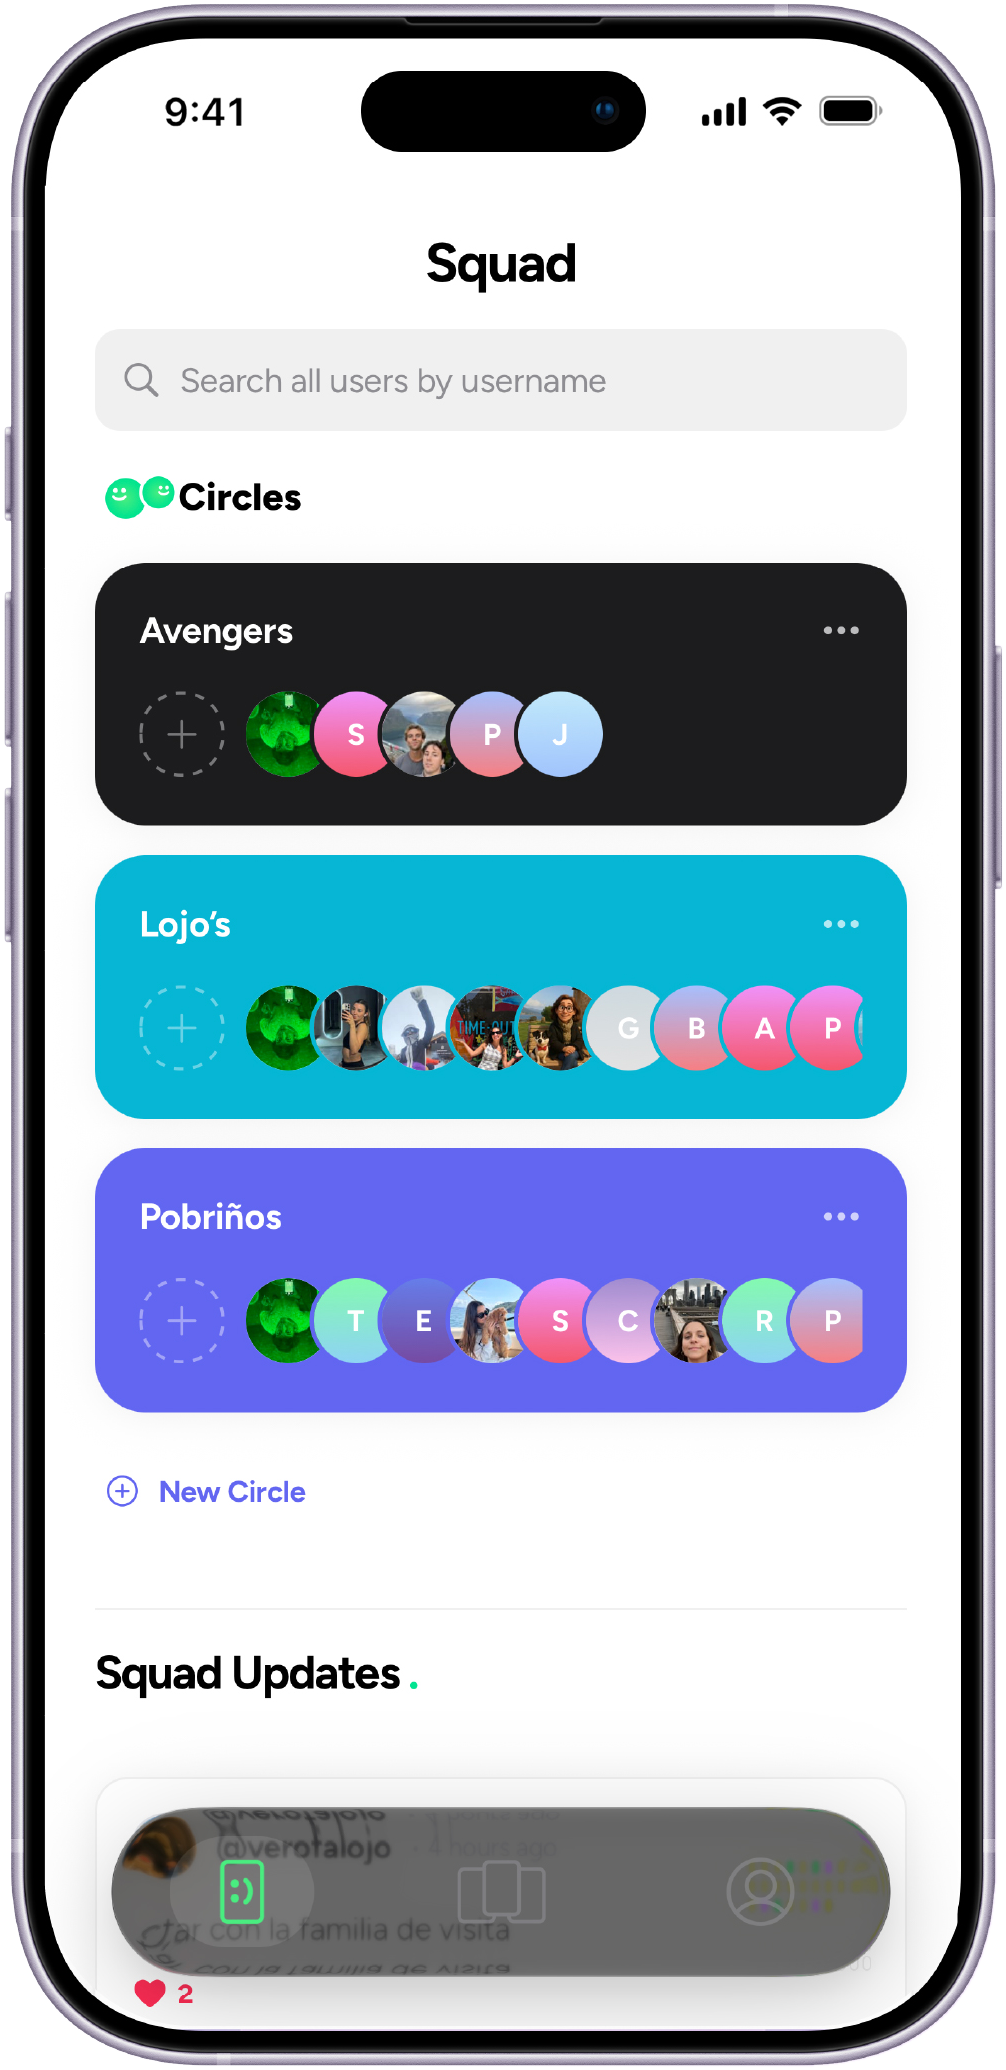
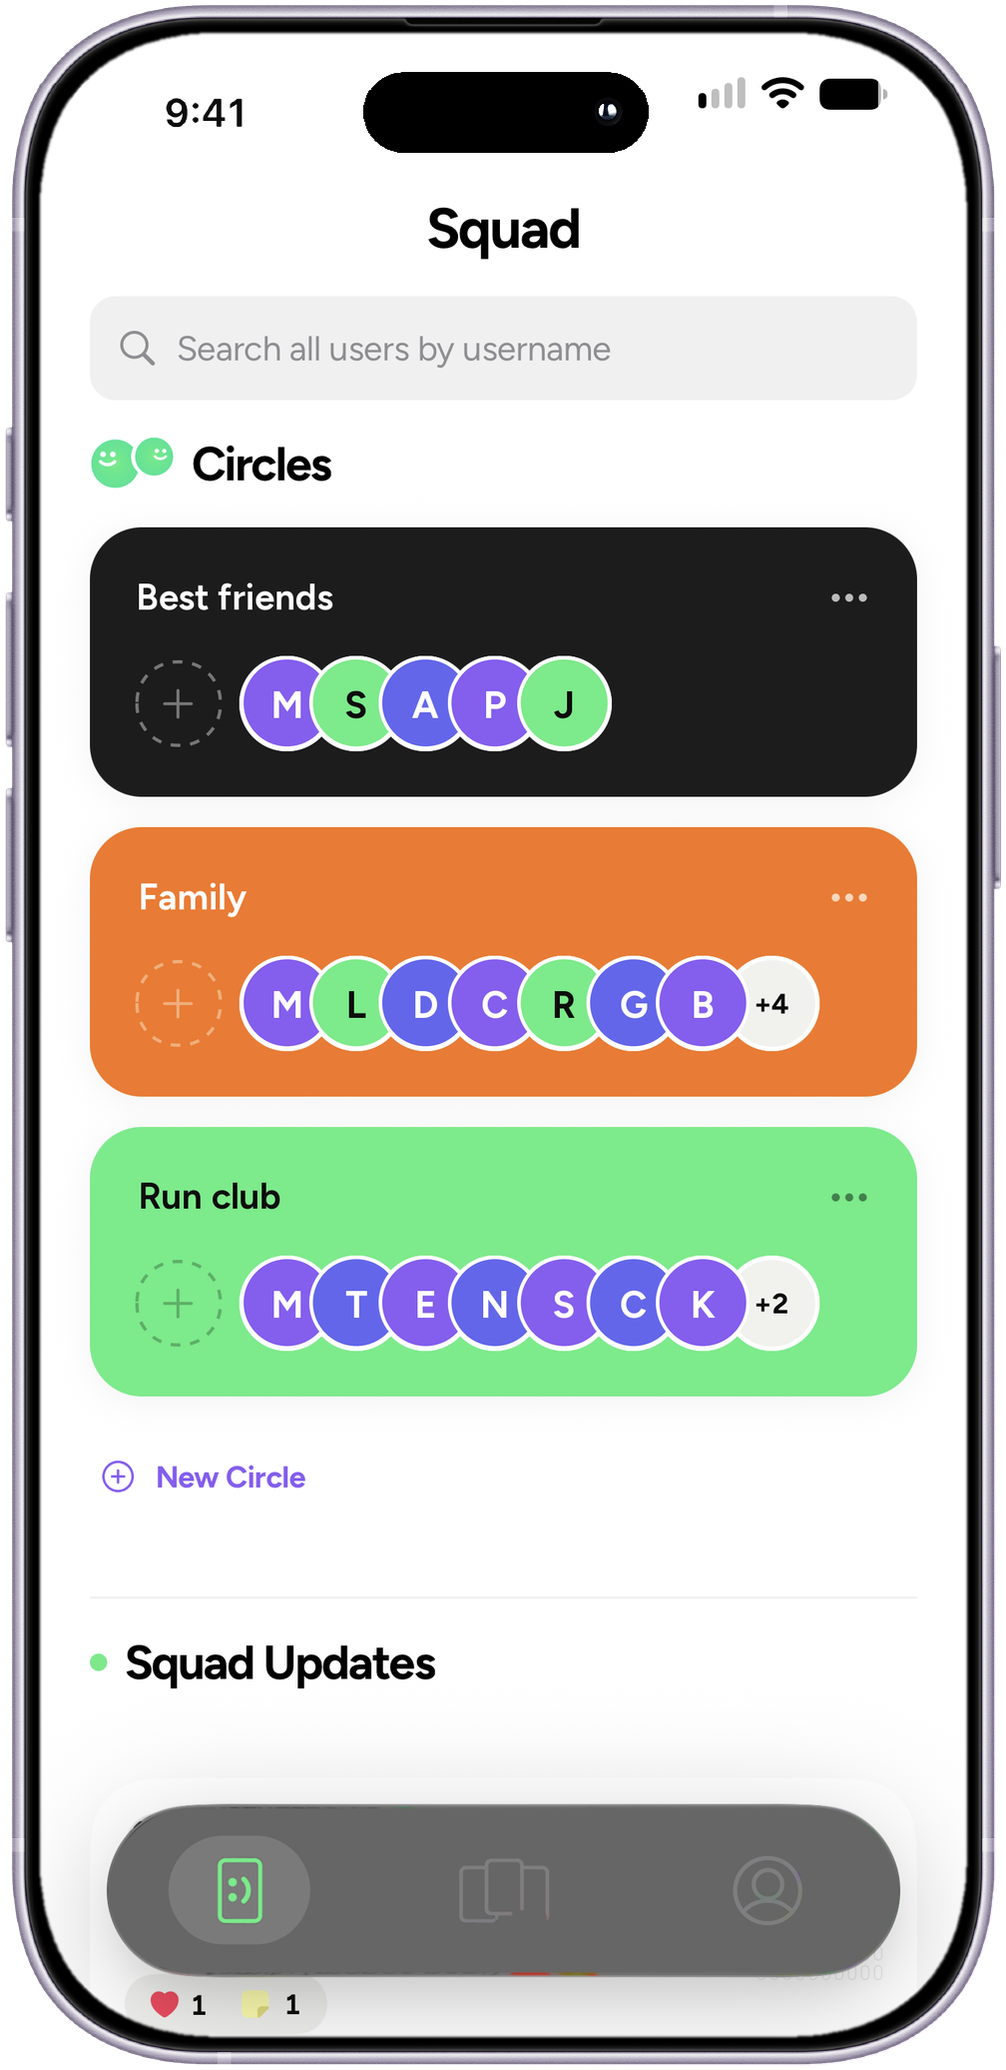
site: new week review, circles and BIG tings mockups
Claude-Session: https://claude.ai/code/session_01FLCdv2xrZBZFMBQPf88xrK

diff --git a/index.html b/index.html
@@ -525,19 +525,19 @@
               <div class="eyebrow">look back</div>
               <h3>your week, at a glance.</h3>
               <p>flip back through your week, day by day. up to three tings a day, stacked and waiting to be relived. skip a day and it sits there with a little sad face. no pressure, just a nudge. turns out the small stuff was the big stuff all along.</p>
-              <img class="shot" src="goodting-as-06-8.png" alt="the week review screen, seven days of tings with sunday open" loading="lazy" />
+              <img class="shot" src="goodting-as-06-8.png?v=1106" alt="the week review screen, seven days of tings with sunday open" loading="lazy" />
             </article>
             <article class="step" data-glow="rgba(34,211,238,0.35)">
               <img src="goodtings-cricles-white.svg" alt="circles" class="svg-head" />
               <h3>your people. your circles.</h3>
               <p>share some tings with your inner circle, some with the whole squad, and keep some just for you. no algorithm. no strangers. just the people who actually get it.</p>
-              <img class="shot" src="goodting-as-04-8.png" alt="the squad screen with circles" loading="lazy" />
+              <img class="shot" src="goodting-as-04-8.png?v=1106" alt="the squad screen with circles" loading="lazy" />
             </article>
             <article class="step" data-glow="rgba(139,92,246,0.45)">
               <img src="goodtings-bigtings.svg" alt="big tings" class="svg-head" />
               <h3>52 big tings a year.</h3>
               <p>write the bucket list. travel somewhere new. start the ting. learn something. love someone. tick them off as you live them, and watch your year become the one you designed.</p>
-              <img class="shot" src="goodting-as-05-8.png" alt="the profile screen with big tings and bucket list" loading="lazy" />
+              <img class="shot" src="goodting-as-05-8.png?v=1106" alt="the profile screen with big tings and bucket list" loading="lazy" />
             </article>
           </div>
           <div class="phone-col" aria-hidden="true">
@@ -545,9 +545,9 @@
               <div class="phone" id="phone">
                 <img class="on" src="goodting-as-02-8.png" alt="" />
                 <img src="goodting-as-03-8.png" alt="" />
-                <img src="goodting-as-06-8.png" alt="" />
-                <img src="goodting-as-04-8.png" alt="" />
-                <img src="goodting-as-05-8.png" alt="" />
+                <img src="goodting-as-06-8.png?v=1106" alt="" />
+                <img src="goodting-as-04-8.png?v=1106" alt="" />
+                <img src="goodting-as-05-8.png?v=1106" alt="" />
                 <div class="dots"><i class="on"></i><i></i><i></i><i></i><i></i></div>
               </div>
             </div>
